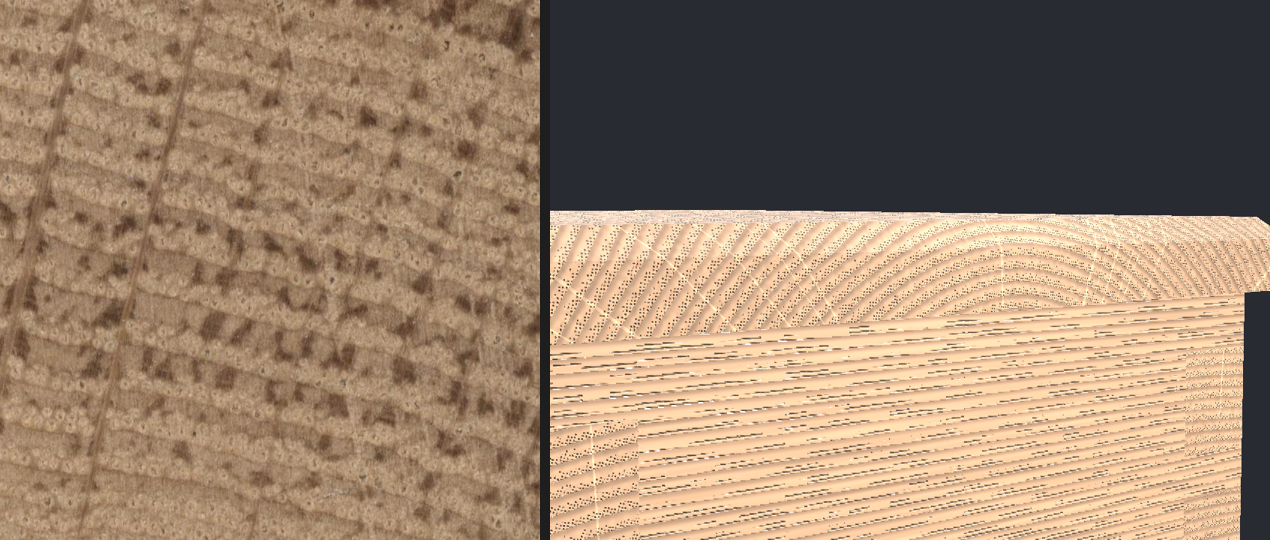
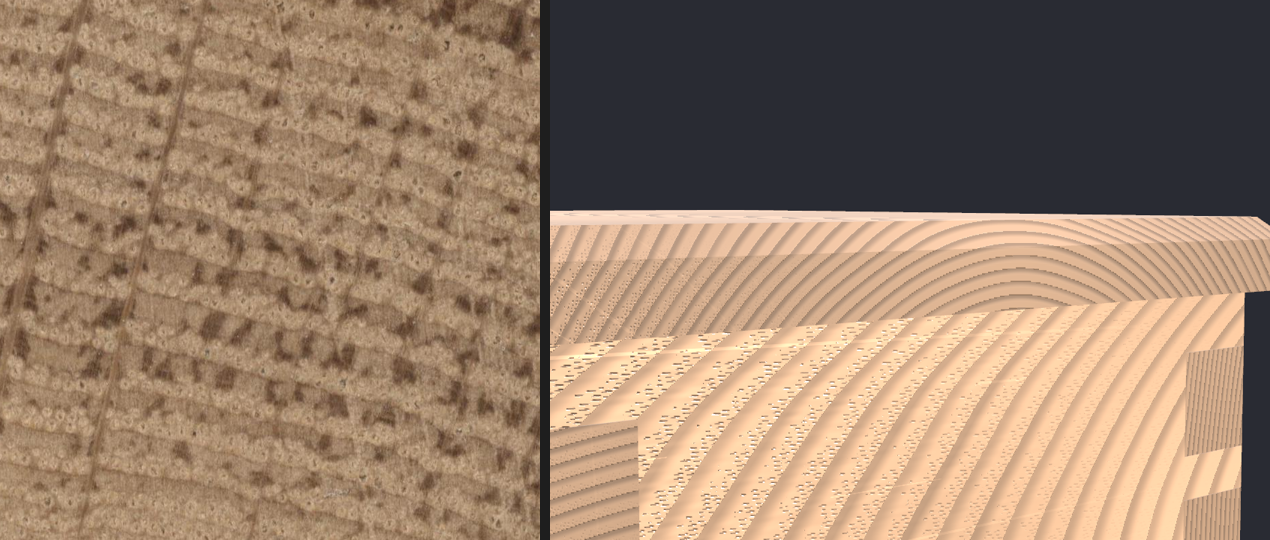
CH4 last look pass: band-limited shader, end grain tone, flat-sawn sides, bars V and AA
Claude-Session: https://claude.ai/code/session_01MWRVfiDPnee99dT9z6iMz9

Changed region(s): [[0.4299, 0.3852, 1.0, 1.0]]

diff --git a/docs/CH4_FEEDBACK.md b/docs/CH4_FEEDBACK.md
@@ -40,3 +40,14 @@ New bars, written first and run on the old build (all failed except Y; before ->
 - Reruns: ch4 0 fail, easypart 0 fail, peasy3 0 fail.
 
 Honest look: the lenses are gone and the lid arches and chamfer read well, but at box scale the 1.5 mm side-board stripes alias into a fine moire and, on the corner close-up, side stripes and end grain look alike so the dovetails read less than before. Next: a ring-width mip fade and a stronger end-grain tone.
+
+## Last look pass (v2 read as noise, not oak)
+New bars written first and run on b7492a43 (both failed there):
+- V dovetails show (corner.png): mean luminance of tail end-grain cells vs the pin side-grain cells touching them (within 10 px; mask rendered from the geometry, red = face normal along its board's grain axis, same camera): old 2.1 % apart; now 12.8 % (bar >= 12 %). This one is marginal: 12.8 against 12.
+- AA box.png: energy above 0.35 cycles/px vs the same view rendered 4x supersampled and box-filtered (MSAA 4x on in both): old 1.63x; now 0.43x (bar <= 1.5). The ratio is below 1 because the band-limited field is smoother than the supersampled average of the sharp field.
+Changes:
+1. Band limit (shader, lit mode only, so the F shader-vs-field bar is unchanged): ring contrast fades to its mean once a ring is under 2 px (fwidth of the ring phase); pores, rays and the fine fibre noise fade once a pore cell is under ~1.6 px.
+2. End grain darker and rougher, keyed from the field: albedo x 0.68 and roughness +0.2 when the face normal is within ~30 deg of the board's own axis (ax_w); no face ids.
+3. Side boards flat-sawn with the pith 200 mm behind the face and the log axis tilted 0.18 through the thickness (Back, Left, Right); ring 1.0 to 1.1 mm. Bar S stays as it is: Front 2.2, Back 3.7, Left 5.4, Right 6.4, Lid 6.6 % (< 8 %). The tilt is what makes narrow arches: with no tilt a flat-sawn face has one huge ring patch. E4 bounds the tilt from above (pore streaks got short at 0.22: aspect 3.8, bar 4), S bounds it from below, so 0.18 with finer rings was the window.
+4. The Front stays rift-sawn: bar E2 (>= 70 % of ring gradient across the grain on the Front's outside) cannot hold on a flat-sawn tilted face, and I did not move it. So the corner shot shows a rift Front beside a flat-sawn Left.
+Honest look: the dovetails now read clearly in the corner and the box shot, the moire is gone, and the lid arches and chamfer read as oak. Weaker: the flat-sawn Right face has very regular, wide-ranging arcs with a bright, saturated tone; the Front's rift stripes are too even; no large rays are visible at this scale. Fresh-oak colour kept.
